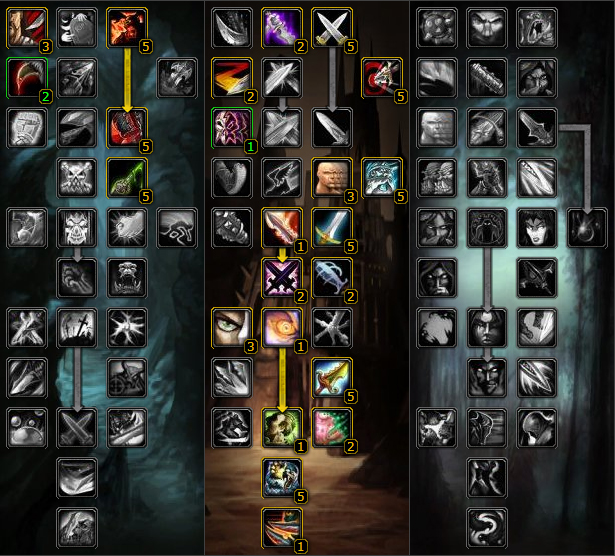
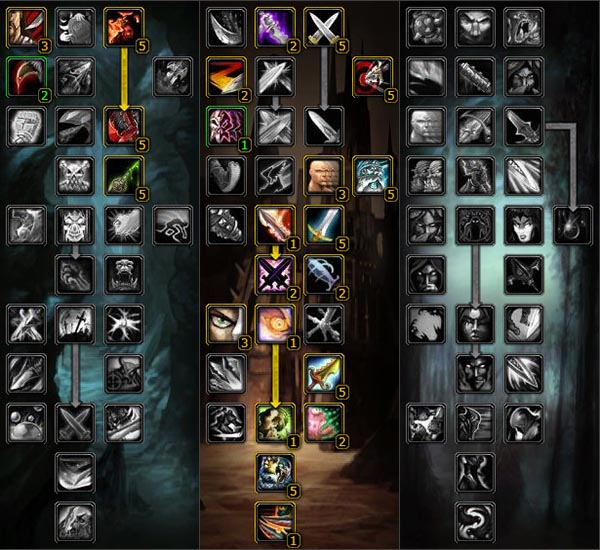
10.26.19.

diff --git a/talents.html b/talents.html
@@ -27,22 +27,61 @@
     </div>
   </header>
   <main id="talentsPage">
-      <h1>Talents and Glyphs</h1>
-      <img src="http://placekitten.com/800/600" alt="" id="talentsAndGlyphsImage">
-      <p>This is my build. It's pretty much the standart build, with some differences, however it may and should be changed based on your equipment and play style.</p>
+    <h1>Talents and Glyphs</h1>
+    <p>Most of the build is set in stone and there are only a couple places to be creative with it, majority of which are inside of the Assassination tree.</p>
     <section id="talents">
-      <h1>Talent choices</h1>
-      <h2>Eviscerate vs Rupture</h2>
-      <p>Lorem ipsum dolor sit amet, consectetur adipiscing elit, sed do eiusmod tempor incididunt ut labore et dolore magna aliqua. Venenatis urna cursus eget nunc scelerisque viverra. Integer malesuada nunc vel risus commodo. Suspendisse interdum consectetur libero id faucibus nisl tincidunt eget.</p>
-      <h2>Poisons vs Poisons</h2>
-      <p>Convallis tellus id interdum velit laoreet id. Nunc congue nisi vitae suscipit tellus. Felis donec et odio pellentesque diam volutpat commodo. Duis at consectetur lorem donec massa sapien faucibus et molestie. Ullamcorper morbi tincidunt ornare massa eget egestas purus. Et netus et malesuada fames ac.</p>
-      <h2>Swords vs Daggers</h2>
-      <p>Enim ut sem viverra aliquet eget sit. Faucibus et molestie ac feugiat sed lectus vestibulum mattis ullamcorper. Suspendisse ultrices gravida dictum fusce ut placerat orci nulla pellentesque.</p>
+      <h1 class="Mobile">Talent choices</h1>
+      <div id="talentsImage"><img src="./Assets/Images/Build.jpg" alt=""/>
+        <p>This is my build. It's pretty much the same as standart, but it may and should be changed based on your equipment and play style.</p>
+      </div>
+      <h1 class="PC">Talent choices</h1>
+      <h2><a href="https://wotlkdb.com/?spell=48668" target="_blank">Eviscerate</a> vs <a href="https://wotlkdb.com/?spell=48672" target="_blank">Rupture</a></h2>
+      <p>Depending on your finisher, you can either play with <a  href="https://wotlkdb.com/?spell=14164" target="_blank">Improved Eviscerate 3/3</a> which will increase the damage of your <a href="https://wotlkdb.com/?spell=48668" target="_blank">Eviscerate</a> by 20%, or you may pick <a href="https://wotlkdb.com/?spell=51633" target="_blank">Blood Spatter 2/2</a> which will increase your <a href="https://wotlkdb.com/?spell=48672" target="_blank">Rupture</a> damage by 30% and leave you an extra tallent point to spend on <a href="https://wotlkdb.com/?spell=14156" target="_blank">Ruthlessness.</a></p>
+      <p>Most of the guides will tell you to play with <a href="https://wotlkdb.com/?spell=48672" target="_blank">Rupture</a> in the low gear and <a href="https://wotlkdb.com/?spell=48668" target="_blank">Eviscerate</a> in the high gear when you'll have more ARP, because it will deal more damage and blah, blah, blah. <strong>It's a lie.</strong> After hours of testing I found out that <strong>even with full ARP cap</strong> <a href="https://wotlkdb.com/?spell=48672" target="_blank">Rupture</a> deals more damage than <a href="https://wotlkdb.com/?spell=48668" target="_blank">Eviscerate</a>. There are two reasons for that:
+      <ol>
+        <li><a href="https://wotlkdb.com/?spell=48672" target="_blank">Rupture</a> is 10 energy cheaper, hence, every 4th use of this finisher allows you to hit one more time with the <a href="https://wotlkdb.com/?spell=48638" target="_blank">Sinister Strike</a> which is one of your main sources of damage.</li>
+        <li><a href="https://wotlkdb.com/?spell=48672" target="_blank">Rupture</a> deals additional 30% damage with Feral's or Arms' bleed buff which even without the <a href="https://wotlkdb.com/?spell=56801" target="_blank">Rupture glyph</a> deals more damage than <a href="https://wotlkdb.com/?spell=48668" target="_blank">Eviscerate</a> <strong>with</strong> <a href="https://wotlkdb.com/?spell=56802" target="_blank">the glyph.</a></li>
+      </ol>
+      </p>
+      <p>If you want to maximize your DPS, you should use both: <a href="https://wotlkdb.com/?spell=14164" target="_blank">Eviscerate 3/3</a> with <a href="https://wotlkdb.com/?spell=56802" target="_blank">the glyph</a> and <a href="https://wotlkdb.com/?spell=51633" target="_blank">Rutrure 2/2</a> without <a href="https://wotlkdb.com/?spell=56801" target="_blank">the glyph</a>. Then ommit <a href="https://wotlkdb.com/?spell=14156" target="_blank">Ruthlessness</a> at all, it's not that profitable as may seem. <strong>However</strong>, despite all facts, I still play with <a href="https://wotlkdb.com/?spell=14164" target="_blank">Improved Eviscerate 3/3</a> only. <strong>But why? </strong><br />
+        Playing with both finishers requires more effort and and it will increase your DPS for sure, but very slightly. Finisher mooves are in the last lines of your recount. This small increase is simply not worth the effort. This information is still here just in case you want to go absolutely tryhard and squeeze out of your class as much DPS as you only can.</p>
+      <h2><a href="https://wotlkdb.com/?spell=16513" target="_blank">Vile Poisons</a> vs <a href="https://wotlkdb.com/?spell=14117" target="_blank">Improved Poisons</a></h2>
+      <p>After picking your finisher and learning <a href="https://wotlkdb.com/?spell=14137" target="_blank">Lethality 5/5</a> which is must have, you have 5 more points to spend in Assasination tree. The best way to use thosee points is to enhance your poisons, which are one of your main sources of damage too. <a href="https://wotlkdb.com/?spell=16513" target="_blank">Vile Poisons</a> will increase the damage of your poisons, whereas <a href="https://wotlkdb.com/?spell=14117" target="_blank">Improved Poisons</a> will increase the amount of procs of those poisons.</p>
+      <p>Most people learn <a href="https://wotlkdb.com/?spell=16513" target="_blank">Vile Posions</a> for 1/3 and spend the rest in the <a href="https://wotlkdb.com/?spell=14117" target="_blank">Improved Poisons</a>, which is not bad, but I'd reccomend to ommit <a href="https://wotlkdb.com/?spell=16513" target="_blank">Vile Poisons</a> completely and learn <a href="https://wotlkdb.com/?spell=14117" target="_blank">Improved Poisons</a> 5/5. It'll allow your Deadly Poison stack faster which is very usefull in the beggining of the combat and after target change to hit the 5 Deadly Poison staks. It also decreases inner cooldown of your Instant Poison which will make it proc faster to. In general, fully caped <a href="https://wotlkdb.com/?spell=14117" target="_blank">Improved Poisons</a> will deal more damage than <a href="https://wotlkdb.com/?spell=16513" target="_blank">Vile Poisons</a> 1/3.</p>
+      <p><strong>Spending more than 1 point into <a href="https://wotlkdb.com/?spell=16513" target="_blank">Vile Posions</a> is a mistake. It'll deal more damage, but the number of applies of your poisons will decrease drammatically.</strong></p>
+      <h2><a href="https://wotlkdb.com/?spell=13964" target="_blank">Swords</a> vs <a href="https://wotlkdb.com/?spell=13807" target="_blank">Daggers</a></h2>
+      <p>This part is dedicated to some varieties in Combat tree which aren't many, but still. You can change your weapon talents based on the weapons you use. I often see people with <a href="https://wotlkdb.com/?spell=13964" target="_blank">Hack and Slash 5/5</a> in their build who don't have good swords or axes yet so they wear daggers instead. Plese don't do it, it's waste of your skill points and DPS. Don't be afraid to change your build based on your weapons, it's not that expencive. Learn <a href="https://wotlkdb.com/?spell=13807" target="_blank">Close Quarters Combat 5/5</a> if you use daggers or <a href="https://wotlkdb.com/?spell=13803" target="_blank">Mace Specialization 5/5</a> if you use maces. It will help.</p>
     </section>
     <section id="glyphs">
-      <h1>Glyph Choices</h1>
-      <h2><img src="Assets/Graphics/SkillsIcons/AdrenalinRush.jpg" alt="" class="smallIcon"> Adrenalin Rush vs <img src="Assets/Graphics/SkillsIcons/KillingSpree.jpg" alt="" class="smallIcon"> Killing Spree</h2>
-      <p>Faucibus a pellentesque sit amet porttitor eget dolor. Volutpat blandit aliquam etiam erat velit scelerisque in. Diam volutpat commodo sed egestas egestas. Pellentesque nec nam aliquam sem et tortor consequat id porta. A lacus vestibulum sed arcu non odio euismod. Ut diam quam nulla porttitor massa id.</p>
+      <h1 class="Mobile">Glyph Choices</h1>
+      <div id="glyphsImage"><img src="Assets/Images/Glyphs.jpg" alt=""/>
+        <p>These are my glyphs</p>
+      </div>
+      <h1 class="PC">Glyph Choices</h1>
+      <h2>Major</h2>
+      <p>Your major glyphs will consist of:</p>
+      <ol>
+        <li><a href="https://wotlkdb.com/?item=42972" target="_blank">Glyph of Sinister Strike</a> is essential to the Combat Rogue, since <a href="https://wotlkdb.com/?spell=48638" target="_blank">Sinister Strike</a> is your main and only Combo Point generator which you'll use during the whole fight.</li>
+        <li><a href="https://wotlkdb.com/?item=42961" target="_blank">Glyph of Eviscerate</a> which you will never change despite the build you use, because there is nothing worse that non-criting <a href="https://wotlkdb.com/?spell=48668" target="_blank">Eviscerate</a>.</li>
+        <li>The last major glyph if for the burst and you have one choice to make here:</li>
+        <ul>
+          <li>
+            <h3><a href="https://wotlkdb.com/?item=42954" target="_blank"><img src="Assets/Graphics/SkillsIcons/AdrenalinRush.jpg" alt="" class="smallIcon"> Adrenalin Rush</a> vs <a href="https://wotlkdb.com/?item=45762" target="_blank"><img src="Assets/Graphics/SkillsIcons/KillingSpree.jpg" alt="" class="smallIcon"> Killing Spree</a></h3>
+            <p><a href="https://wotlkdb.com/?item=45762" target="_blank">Glyph of Killing Spree</a> is what most people take, because <a href="https://wotlkdb.com/?spell=51690" target="_blank">Killing Spree</a> deals so much damage in a short period of time which is good for burst and blah, blah, blah. But the true is, <a href="https://wotlkdb.com/?spell=51690" target="_blank">Killing Spree</a> is often not that usefull without <a href="https://wotlkdb.com/?spell=13877" target="_blank">Blade Flurry</a>. It may jump over the slime on the <a href="https://wotlkdb.com/?npc=36627" target="_blank">Rotface</a>, or on the trash on the <a href="https://wotlkdb.com/?npc=37813" target="_blank">Saurfang</a>, or on the one of the inactive princes before <a href="https://wotlkdb.com/?npc=37955" target="_blank">Lana'thel</a>, or on the trash with Val'kyres on <a href="https://wotlkdb.com/?npc=36597" target="_blank">The Lich King</a> and deal ablsolutely no effective damage. <a href="https://wotlkdb.com/?spell=13877" target="_blank">Blade Flurry</a> negates this aspect and allows your <a href="https://wotlkdb.com/?spell=51690" target="_blank">Killing Spree</a> to deal even more damage when there are many targets around you which will never be uneffective. Since <a href="https://wotlkdb.com/?spell=51690" target="_blank">Killing Spree</a> without <a href="https://wotlkdb.com/?item=45762" target="_blank">the glyph</a> and <a href="https://wotlkdb.com/?spell=13877" target="_blank">Blade Flurry</a> have the same cooldoun, I see no reason to change it with <a href="https://wotlkdb.com/?item=45762" target="_blank">the glyph</a>. I'm not even talking about the fact that it might just kill you in the fight with <a href="https://wotlkdb.com/?npc=39863" target="_blank">Halion</a> on the second phase, which makes no sence to use <a href="https://wotlkdb.com/?spell=51690" target="_blank">Killing Spree</a> there, hence to decrease it's cooldound with glyph.</p>
+            <p>That's why I use the <a href="https://wotlkdb.com/?item=42954" target="_blank">Glyph of Adrenaline Rush</a> which allows to decrease the downtime during the burst phase by givving you 5 more seconds of almost unlimited energy.</p>
+          </li>
+        </ul>
+      </ol>
+      <p>Other major glyphs are almost useless.</p>
+      <h2>Minor</h2>
+      <p>Minor glyphs are not as important, but I'll go over them too.
+      <ol>
+        <li><a href="https://wotlkdb.com/?item=43379" target="_blank">Glyph of Blurred Speed</a> is cool to have. Sometimes it helps to mount up in the water.</li>
+        <li><a href="https://wotlkdb.com/?item=43378" target="_blank">Glyph of Safe Fall</a> will save your life a bunch of times.</li>
+        <li><a href="https://wotlkdb.com/?item=43380" target="_blank">Glyph of Vanish</a> helps you to retreat faster in an unexpected situation.</li>
+      </ol>
+      Other minor glyphs are almost useless.
+      </p>
     </section>
   </main>
   <footer>

diff --git a/style.css b/style.css
@@ -83,6 +83,8 @@ font-size: 0.8em;}
 
 main {margin: 10px;}
 
+.Mobile {display: none;}
+
 #formPage legend {margin-bottom: 0px;
 padding-bottom: 0px;
 text-align: center;
@@ -111,8 +113,6 @@ margin-left: 40px;
 margin-right: 10px;
 width: 350px;}
 
-#Mobile {display: none;}
-
 #mainContent {margin-bottom: 20px;
 width: 920px;}
 
@@ -124,7 +124,34 @@ clear: both;}
 margin: 0px auto;
 width: 100%;
 height: 600px;
-border: none;}
+padding: 0px;
+border: 1px #48734F solid;
+background-color: rgba(0,0,0,0.5);}
+
+#talentsImage {float: right;
+display: inline-block;
+width: 600px;
+text-align: center;
+margin-left: 30px;
+padding: 10px;
+border: 1px #48734F solid;
+background-color: rgba(0,0,0,0.5);}
+
+#glyphsImage {display: inline-block;
+float: right;
+text-align: center;
+background-color: rgba(0,0,0,0.5);
+padding: 10px;
+border: 1px #48734F solid;
+margin-left: 30px;
+width: 300px;}
+
+#talentsPage ul, #talentsPage ol {padding-left: 20px;}
+
+#talentsPage ul li, #talentsPage ol li {margin-bottom: 10px;}
+
+#talentsPage #glyphs ul {list-style: none;
+padding-left: 0px;}
 
 footer {border-top: 1px solid black;
 background-color: rgba(0,0,0,0.5);
@@ -183,9 +210,18 @@ footer ul li {display: inline-block;}
 	padding-bottom: 3px;}
 	#mainSlider {width: 100%;
 	height: 400px;}
-	#PC {display: none;}
-	#Mobile {display: block;}
+	#mainPage .PC {display: none;}
+	#mainPage .Mobile {display: block;}
 	#mainContent {width: 100%;}
+	#talentsImage {float: none;
+	display: block;
+	width: 550px;
+	text-align: center;
+	margin-left: auto;
+	margin-right: auto;}
+	#talentsImage img {width: 100%;}
+	#talents .Mobile {display: block;}
+	#talents .PC {display: none;}
 	
 }
 
@@ -216,4 +252,16 @@ footer ul li {display: inline-block;}
 	width: 138.75px;
 	height: 150px;}
 	#logoWithText h1 {padding-bottom: 10px;}
+	#talentsImage {width: 95%}
+	#talentsImage img {width: 100%;}
+	#glyphsImage {display: block;
+	float: none;
+	text-align: center;
+	background-color: rgba(0,0,0,0.5);
+	padding: 10px;
+	border: 1px #48734F solid;
+	margin-left: auto;
+	margin-right: auto;}
+	#glyphs .PC {display: none;}
+	#glyphs .Mobile {display: block;}
 }

diff --git a/index.html b/index.html
@@ -11,7 +11,7 @@
 <div id="container">
   <header>
     <div id="bgfade">
-      <div id="logoWithText"> <a href="./index.html"><img src="./Assets/Graphics/Logo.png" alt=""></a> <a href="./index.html">
+      <div id="logoWithText"> <a href="./index.html"><img src="./Assets/Graphics/Logo.png" alt="Home page link"></a> <a href="./index.html">
         <h1>Tricks of Trade: <span>How to Play Rogue</span></h1>
         </a> </div>
       <h2><em><q>The Lich King is 11 years old and you<br />
@@ -27,10 +27,10 @@
     </div>
   </header>
   <main id="mainPage">
-    <h1 id="Mobile">Don't know how to play Rogue?</h1>
-    <img src="Assets/Images/mainImage.jpg" id="mainImage" alt="">
+    <h1 class="Mobile">Don't know how to play Rogue?</h1>
+    <img src="Assets/Images/mainImage.jpg" id="mainImage" alt="Combat Rogue: Deadly and Beautiful">
     <div id="mainContent">
-      <h1 id="PC">Don't know how to play Rogue?</h1>
+      <h1 class="PC">Don't know how to play Rogue?</h1>
       <ul>
         <li>People call you noob?</li>
         <li>Can't get into raids?</li>

diff --git a/Slider/SliderStyle.css b/Slider/SliderStyle.css
@@ -9,9 +9,19 @@ line-height: 0px;
 font-family: arial, sans-serif;
 font-size: 90px;
 overflow: hidden;
-background-image: url("./Images/WoWScrnShot_102219_144711.jpg");
 background-size: cover;
 background-position: center;}
+
+#Slider1 {background-image: url("./Images/WoWScrnShot_102319_194514.jpg");}
+
+#Slider2 {background-image: url("./Images/WoWScrnShot_102319_221240.jpg");
+background-position: left;}
+
+#Slider3 {background-image: url("./Images/WoWScrnShot_102319_225855.jpg");}
+
+#Slider4 {background-image: url("Images/WoWScrnShot_102319_233312.jpg");}
+
+#Slider5 {background-image: url("Images/WoWScrnShot_102319_230526.jpg");}
 
 a:link, a:visited {color: rgba(255,255,255,0.3);
 text-decoration: none;

diff --git a/Slider/Slider2.html b/Slider/Slider2.html
@@ -7,8 +7,8 @@
 <meta name="viewport" content="width=device-width, initial-scale=1.0">
 </head>
 
-<body id="Slider1">
-<a id="right" href="./Slider2.html">&#10095;</a>
-<a id="left" href="./Slider5.html">&#10094;</a>
+<body id="Slider2">
+<a id="right" href="./Slider3.html">&#10095;</a>
+<a id="left" href="./Slider1.html">&#10094;</a>
 </body>
 </html>

diff --git a/Slider/Slider3.html b/Slider/Slider3.html
@@ -7,8 +7,8 @@
 <meta name="viewport" content="width=device-width, initial-scale=1.0">
 </head>
 
-<body id="Slider1">
-<a id="right" href="./Slider2.html">&#10095;</a>
-<a id="left" href="./Slider5.html">&#10094;</a>
+<body id="Slider3">
+<a id="right" href="./Slider4.html">&#10095;</a>
+<a id="left" href="./Slider2.html">&#10094;</a>
 </body>
 </html>

diff --git a/Slider/Slider4.html b/Slider/Slider4.html
@@ -7,8 +7,8 @@
 <meta name="viewport" content="width=device-width, initial-scale=1.0">
 </head>
 
-<body id="Slider1">
-<a id="right" href="./Slider2.html">&#10095;</a>
-<a id="left" href="./Slider5.html">&#10094;</a>
+<body id="Slider4">
+<a id="right" href="./Slider5.html">&#10095;</a>
+<a id="left" href="./Slider3.html">&#10094;</a>
 </body>
 </html>

diff --git a/Slider/Slider5.html b/Slider/Slider5.html
@@ -7,8 +7,8 @@
 <meta name="viewport" content="width=device-width, initial-scale=1.0">
 </head>
 
-<body id="Slider1">
-<a id="right" href="./Slider2.html">&#10095;</a>
-<a id="left" href="./Slider5.html">&#10094;</a>
+<body id="Slider5">
+<a id="right" href="./Slider1.html">&#10095;</a>
+<a id="left" href="./Slider4.html">&#10094;</a>
 </body>
 </html>
